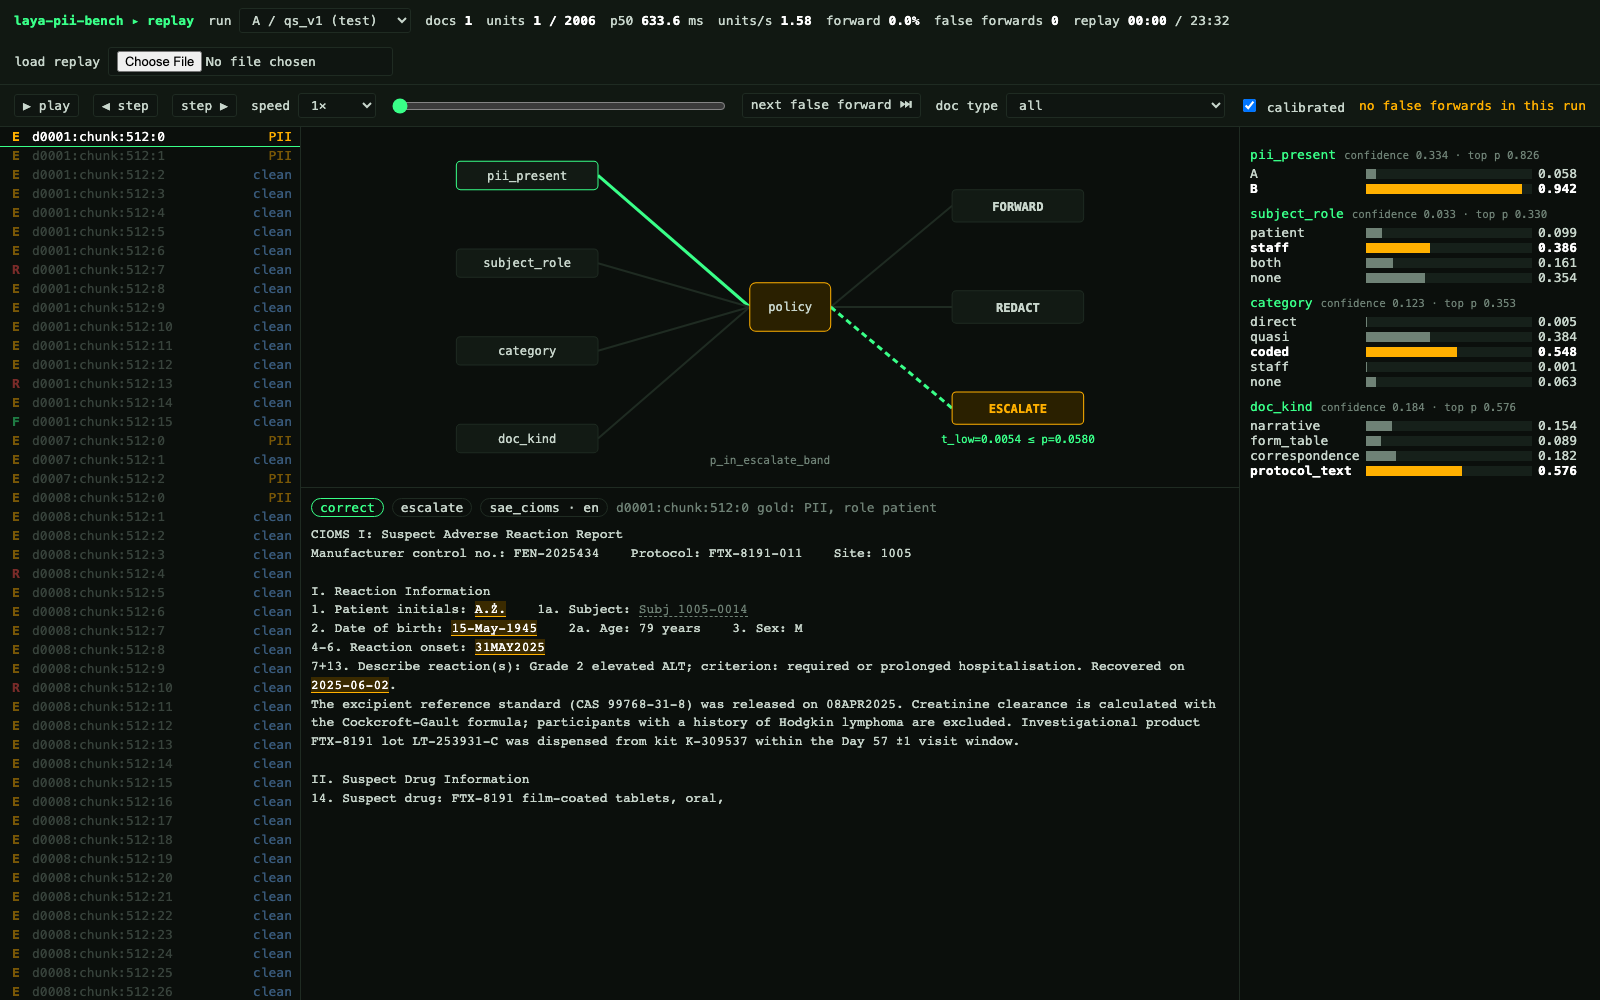
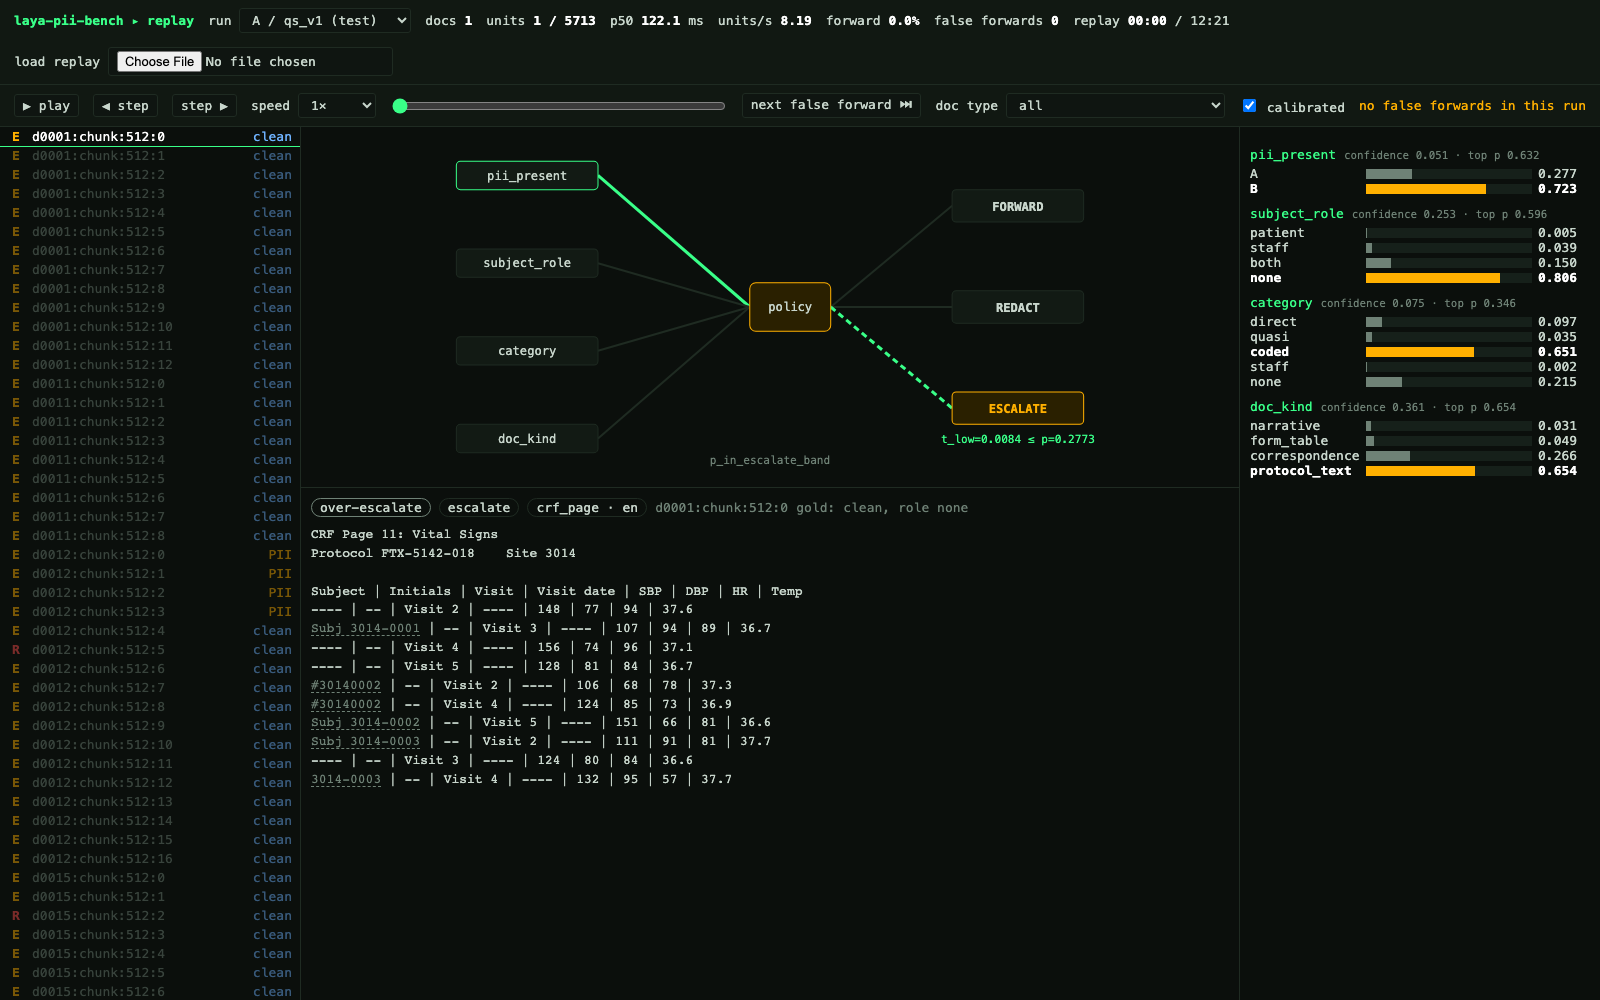
M8: M2 timing-only runs for A and C (qs_v1, 1,000 seeded test units); A, C rescored with timing; HUD rebuilt; STATUS
Claude-Session: https://claude.ai/code/session_01UtXnBDobJ1TqggqjfeLPtz

diff --git a/bench/report.py b/bench/report.py
@@ -376,8 +376,9 @@ def _comparison(all_scores: Sequence[Scores]) -> list[str]:
         "C's own training units, calibrated and scored like an arm (pii_present only, no role "
         "rule). Thresholds are fit on calibration at each recall target. Route recall = 1 - "
         "false forwards / PII units, with exact 95% bounds. M2 latency is the p50 of a "
-        "timing-only run on a seeded sample of test units (D-022); accuracy runs ran on Kaggle "
-        "T4 GPUs.",
+        "timing-only run on a seeded sample of test units (D-022), the same units for every "
+        "timed arm, run one after another (order not counterbalanced, so heat build-up may "
+        "favour the first); accuracy runs ran on Kaggle T4 GPUs.",
         "",
         *_table(
             [

diff --git a/reports/report.md b/reports/report.md
@@ -19,7 +19,7 @@
 | laya version | 0.3.20 |
 | checkpoints | english |
 | checkpoint revisions | 55cf4c4ebb4ebe31b2550e8bdf3bd21b99753851 |
-| date | 2026-10-02T04:34:29.931771+00:00 |
+| date | 2026-10-02T14:46:57.778313+00:00 |
 
 ### A / qs_v2
 
@@ -209,7 +209,7 @@
 | laya version | 0.3.20 |
 | checkpoints | finetuned_english |
 | checkpoint revisions | 6809676153aa2bb747a0054ed30835e45b3d8e976cdfe31fa956185e9aee661c |
-| date | 2026-10-02T04:34:55.632837+00:00 |
+| date | 2026-10-02T14:47:03.475985+00:00 |
 
 ### C / qs_v2
 
@@ -282,15 +282,15 @@
 
 ### Arm comparison: A vs best B vs fine-tuned C (report v2)
 
-Same test documents for every arm; A, C and the lexical baselines score identical units (same unit spec). Best B is chosen on the calibration split, never on test. The lexical baselines (M8 results review B1) are TF-IDF + logistic regression models trained on C's own training units, calibrated and scored like an arm (pii_present only, no role rule). Thresholds are fit on calibration at each recall target. Route recall = 1 - false forwards / PII units, with exact 95% bounds. M2 latency is the p50 of a timing-only run on a seeded sample of test units (D-022); accuracy runs ran on Kaggle T4 GPUs.
+Same test documents for every arm; A, C and the lexical baselines score identical units (same unit spec). Best B is chosen on the calibration split, never on test. The lexical baselines (M8 results review B1) are TF-IDF + logistic regression models trained on C's own training units, calibrated and scored like an arm (pii_present only, no role rule). Thresholds are fit on calibration at each recall target. Route recall = 1 - false forwards / PII units, with exact 95% bounds. M2 latency is the p50 of a timing-only run on a seeded sample of test units (D-022), the same units for every timed arm, run one after another (order not counterbalanced, so heat build-up may favour the first); accuracy runs ran on Kaggle T4 GPUs.
 
 | qs | arm | route recall @ 99.5% target [exact 95%] | forwarded | negatives forwarded | false forwards | AUROC p(pii) | at 95% target | at 90% target | M2 p50 ms/unit |
 |---|---|---|---|---|---|---|---|---|---|
-| qs_v1 | A, zero-shot English | 1.0000 [0.9912, 1.0000] | 0.51% | 0.0055 | 0 | 0.7861 | 5.9% at recall 0.976 | 13.8% at recall 0.947 | not timed |
+| qs_v1 | A, zero-shot English | 1.0000 [0.9912, 1.0000] | 0.51% | 0.0055 | 0 | 0.7861 | 5.9% at recall 0.976 | 13.8% at recall 0.947 | 622 |
 | qs_v1 | best B (B4), by calib AUROC 0.486 | 1.0000 [0.9830, 1.0000] | 0.00% | 0.0000 | 0 | 0.4662 | 1.5% at recall 0.981 | 4.5% at recall 0.944 | not timed |
 | qs_v1 | LW, lexical baseline (word 1-2-gram) | 0.9976 [0.9868, 0.9999] | 51.18% | 0.5521 | 1 | 0.9848 | 88.0% at recall 0.938 | 89.6% at recall 0.883 | not timed |
 | qs_v1 | LC, lexical baseline (char 2-5-gram) | 0.9952 [0.9829, 0.9994] | 60.79% | 0.6556 | 2 | 0.9864 | 88.3% at recall 0.950 | 90.6% at recall 0.876 | not timed |
-| qs_v1 | C, fine-tuned English | 0.9976 [0.9868, 0.9999] | 92.58% | 0.9989 | 1 | 0.9999 | 92.8% at recall 0.971 | 92.8% at recall 0.969 | not timed |
+| qs_v1 | C, fine-tuned English | 0.9976 [0.9868, 0.9999] | 92.58% | 0.9989 | 1 | 0.9999 | 92.8% at recall 0.971 | 92.8% at recall 0.969 | 708 |
 | qs_v2 | A, zero-shot English | 1.0000 [0.9912, 1.0000] | 0.53% | 0.0057 | 0 | 0.7861 | 6.5% at recall 0.971 | 14.7% at recall 0.933 | not timed |
 | qs_v2 | best B (B4), by calib AUROC 0.486 | 1.0000 [0.9830, 1.0000] | 0.00% | 0.0000 | 0 | 0.4662 | 2.7% at recall 0.967 | 7.7% at recall 0.912 | not timed |
 | qs_v2 | C, fine-tuned English | 0.9952 [0.9829, 0.9994] | 92.63% | 0.9992 | 2 | 0.9999 | 93.2% at recall 0.931 | 93.3% at recall 0.912 | not timed |
@@ -3737,6 +3737,7 @@ Hardware: **Intel(R) Xeon(R) CPU @ 2.00GHz, 31.3 GB RAM, device cuda (Tesla T4),
 | mode | n | p50 ms | p95 ms | p99 ms | mean ms | per sec |
 |---|---|---|---|---|---|---|
 | per unit, batch-1 | 10427 | 131.6 | 137.2 | 142.8 | 129.6 | 7.71 |
+| per unit, timing run on Apple M2, 8.0 GB RAM, device mps (Apple MPS), torch 2.14.0 | 1000 | 621.9 | 685.2 | 693.1 | 617.2 | 1.62 |
 | per unit, batched | 0 | not run |  |  |  |  |
 | per document (sum of units, batch-1; incl. calib docs) | 673 | 1405.2 | 6027.2 | 6718.8 | 2008.6 | 0.50 |
 | per unit, batch-1, <1k tokens | 10427 | 131.6 | 137.2 | 142.8 | 129.6 | 7.71 |
@@ -3863,6 +3864,7 @@ Hardware: **Intel(R) Xeon(R) CPU @ 2.00GHz, 31.3 GB RAM, device cuda (Tesla T4),
 | mode | n | p50 ms | p95 ms | p99 ms | mean ms | per sec |
 |---|---|---|---|---|---|---|
 | per unit, batch-1 | 10427 | 127.3 | 130.7 | 132.8 | 125.0 | 8.00 |
+| per unit, timing run on Apple M2, 8.0 GB RAM, device mps (Apple MPS), torch 2.14.0 | 1000 | 707.7 | 725.5 | 727.9 | 693.2 | 1.44 |
 | per unit, batched | 0 | not run |  |  |  |  |
 | per document (sum of units, batch-1; incl. calib docs) | 673 | 1344.6 | 5885.5 | 6537.1 | 1936.7 | 0.52 |
 | per unit, batch-1, <1k tokens | 10427 | 127.3 | 130.7 | 132.8 | 125.0 | 8.00 |

diff --git a/docs/STATUS.md b/docs/STATUS.md
@@ -13,7 +13,7 @@ Last updated: 2026-09-30 (M7 gate passed)
 | M5 Label + split | done | 2026-09-27 (`reports/audits/M5-gate-20260927-pass.md`; reviews #1, #2 FAIL fixed) | 600 docs split 350/96/124/30, no leaks, all classes in every split; calib freeze enforced |
 | M6 Zero-shot arms, calibrate, score, report v1 | done | 2026-09-30 (`reports/audits/M6-gate-20260930.md`; results review `M6_results_review.md`) | 10 runs; calib frozen 4abf110; D-008 flagged; zero-shot operating point degenerate, multilingual no signal |
 | M7 HUD replay | done | 2026-09-30 (`reports/audits/M7-gate-20260930.md`) | single-file HUD (3 MB), real M6 test replay, 7 e2e + 6 unit tests |
-| M8 Fine-tuned arm C, report v2 | in progress | | corpus 1,600 docs (D-022); C scored (calib 047aad7); results review fixes in; M2 timing runs + gate pending |
+| M8 Fine-tuned arm C, report v2 | in progress | | corpus 1,600 docs (D-022); C scored (calib 047aad7); review fixes + baselines in; M2 timing done; gate pending |
 
 ## Provisional defaults in use
 
@@ -383,11 +383,13 @@ Fixes for `reports/audits/M0-M3-audit-20260926.md` section A, commits 1ff3956..8
 
 ## Next action
 
-**Claude, on the M2 (after the owner closes Firefox and says go):**
+**Claude: independent gate review (`/gate M8`), then close out.**
 
-1. Timing-only runs, A and C, qs_v1: `bench run --arm {A,C} --qs qs_v1 --timing-sample 1000`.
-2. `make score-all` (picks up `runs/{arm}/qs_v1__timing1000` automatically), `make hud`.
-3. `make check`, commit, gate review (`/gate M8`).
+M2 timing runs done 2026-10-02 (`runs/{A,C}/qs_v1__timing1000`, same 1,000 seeded test units,
+10 warmups discarded, A then C back to back): p50 A 622 ms, C 708 ms per unit. Same architecture
+and F16 weights; the order was not counterbalanced, so part of C's gap may be heat build-up
+(noted in the report). A and C qs_v1 rescored with `--timing-decisions`; HUD rebuilt (12 Laya
+runs; the baselines are report rows only), 6 unit + 7 e2e tests pass.
 
 Optional, recommended by the results review: a counterfactual insert/remove probe on C, and
 eventually an out-of-generator test set (the D-011 trigger now holds for C).
@@ -436,3 +438,4 @@ Append one line per session: `YYYY-MM-DD M<n>: what moved, what's blocked`.
 - 2026-09-30 M8 planning: training on Kaggle (owner runs it); corpus size pending; outcomes report drafted as a shared doc and the HUD opened locally, both before any fine-tuning (owner request).
 - 2026-09-30 M8: corpus scaled to 1,600 docs (D-022); gold audit PASS + 3 generator fixes; train-only fine-tune data (32,536 records) + Kaggle notebook/bundle rehearsed locally; waiting on the owner's Kaggle run.
 - 2026-10-02 M8: Kaggle outputs verified; C pinned (4db54bd), calib frozen (047aad7), scored (f7d5ce4); results review PASS WITH REQUIRED CAVEATS; fixes + lexical baselines (cfb6a34, calib b9836b9); rescored, report regenerated. Next: M2 timing runs, HUD, gate.
+- 2026-10-02 M8: M2 timing runs A/C (p50 622 / 708 ms); A, C rescored; HUD rebuilt. Next: gate.
